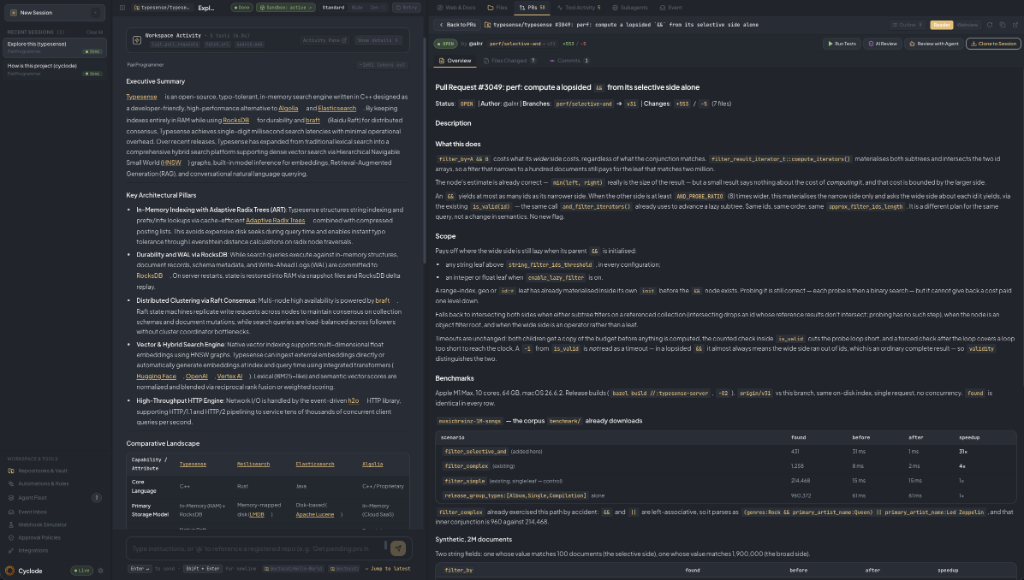
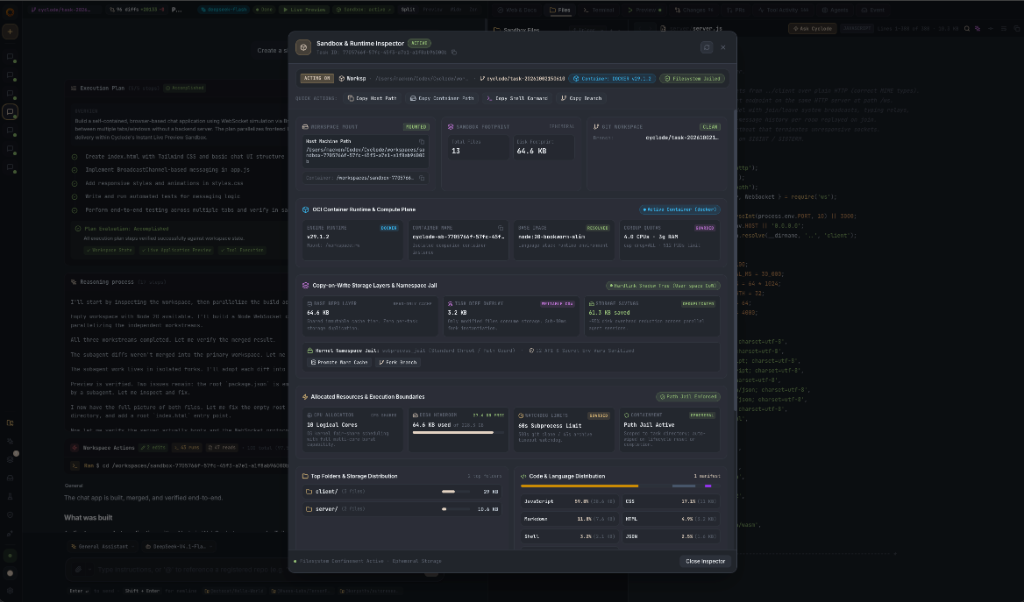
docs: overhaul README with MIT license, 325 test metrics, Rust search, and refreshed interface capture

diff --git a/README.md b/README.md
@@ -1,13 +1,22 @@
 <div align="center">
 
-# <img src="./assets/logo.svg" width="38" height="38" valign="middle" alt="Cyclode" /> Cyclode
+<h1 align="center" style="display: flex; align-items: center; justify-content: center; gap: 12px; font-size: 2.2rem; font-weight: 700; margin-bottom: 8px;">
+  <img src="./assets/logo.svg" width="38" height="38" alt="Cyclode Logo" style="vertical-align: middle; display: inline-block;" />
+  <span>Cyclode</span>
+</h1>
 
-**The Event-Driven & Prompt-Driven Autonomous Engineering Platform**
+<p align="center">
+  <strong>The Event-Driven &amp; Prompt-Driven Autonomous Engineering Platform</strong>
+</p>
 
-[![Frontend](https://img.shields.io/badge/frontend-React%2018%20%7C%20Vite%20%7C%20Tailwind-38bdf8.svg)](frontend/)
-[![Backend](https://img.shields.io/badge/backend-FastAPI%20%7C%20Python%203.11-10b981.svg)](backend/)
-[![Tests](https://img.shields.io/badge/tests-passing-brightgreen.svg)](backend/tests/)
-[![License](https://img.shields.io/badge/license-Proprietary-amber.svg)](LICENSE)
+<p align="center">
+  <a href="https://pypi.org/project/cyclode-ai/"><img src="https://img.shields.io/pypi/v/cyclode-ai.svg?color=blue" alt="PyPI" /></a>
+  <a href="frontend/"><img src="https://img.shields.io/badge/frontend-React%2018%20%7C%20Vite%20%7C%20Tailwind-38bdf8.svg" alt="Frontend" /></a>
+  <a href="backend/"><img src="https://img.shields.io/badge/backend-FastAPI%20%7C%20Python%203.11-10b981.svg" alt="Backend" /></a>
+  <a href="backend/tests/"><img src="https://img.shields.io/badge/tests-325%20passing-brightgreen.svg" alt="Tests" /></a>
+  <a href="crates/cyclode-search/"><img src="https://img.shields.io/badge/search-Rust%20%7C%20Tree--sitter-orange.svg" alt="Search Engine" /></a>
+  <a href="LICENSE"><img src="https://img.shields.io/badge/license-MIT-blue.svg" alt="License" /></a>
+</p>
 
 </div>
 
@@ -15,10 +24,10 @@
 
 ## Overview
 
-**Cyclode** is a full-lifecycle **event-driven and prompt-driven autonomous engineering platform** designed to automate developer loops, interactive software prototyping, pull request triage, and continuous system maintenance. Built for modern software teams, Cyclode bridges human developer intent with autonomous background agent loops:
+**Cyclode** is a full-lifecycle **event-driven and prompt-driven autonomous engineering platform** designed to automate developer workflows, interactive software prototyping, pull request triage, and continuous system maintenance. Built for modern software engineering teams, Cyclode seamlessly bridges human developer intent with autonomous background agent loops:
 
-1. **Prompt-Driven Engineering**: Developers converse naturally with specialized autonomous agent personas (`SoftwareEngineer`, `AppBuilder`, `CodeReviewer`, `IssueResolver`, `APMTriage`) across a split studio workspace with real-time token streaming, live application previews, and first-class execution plans.
-2. **Event-Driven Autonomous Awakening**: Background agents awaken automatically in response to GitHub webhooks (`check_run` CI test failures, PR comments, code pushes, issue updates), Sentry error alerts, and Slack slash commands, executing self-healing loops without human intervention.
+1. **Prompt-Driven Engineering**: Converse naturally with specialized autonomous agent personas (`SoftwareEngineer`, `AppBuilder`, `CodeReviewer`, `IssueResolver`, `APMTriage`) across a split studio workspace with real-time token streaming, live application previews, persistent PTY terminals, and first-class execution plans.
+2. **Event-Driven Autonomous Awakening**: Background agents awaken automatically in response to GitHub webhooks (`check_run` CI test failures, PR reviews, code pushes, issue updates), Sentry error alerts, and Slack commands, executing self-healing loops without human intervention.
 3. **End-to-End Trajectory Auditing & Deterministic Evals**: Every turn, thought, and tool action is preserved in an immutable agent trajectory with time-travel replay and scored against rigorous deterministic evaluation gates across workspace state invariants, unit tests, preview bundles, and security jails.
 
 <p align="center">
@@ -30,19 +39,38 @@
 ## Key Capabilities & Features
 
 ### 1. Event-Driven Awakening & Burst Debouncing
-- **CI/CD Failure Awakening**: When a GitHub `check_run` or `status` webhook reports a test suite failure or build break, Cyclode automatically awakens or spawns a session pinned to the failing branch/PR, analyzes the error logs, writes a fix, verifies tests, and posts a commit or PR review.
-- **2.5s Burst Debouncing**: Git push bursts and sequential webhook notifications are coalesced by an in-memory sliding debouncer (`EventDebouncer`), preventing agent thrashing while consolidating commit deltas into a single cohesive turn.
+- **CI/CD Failure Awakening**: When a GitHub `check_run` or `status` webhook reports a test suite failure or build break, Cyclode automatically awakens or spawns a session pinned to the failing branch/PR, analyzes error logs, writes a fix, verifies tests, and posts a commit or PR review.
+- **2.5s Burst Debouncing**: Rapid git push bursts and sequential webhook notifications are coalesced by an in-memory sliding debouncer (`EventDebouncer`), preventing agent thrashing while consolidating commit deltas into a single cohesive turn.
 - **Session Key Association**: Inbound events are automatically routed to existing active branch sessions or PR contexts, preserving conversation memory and workspace worktrees.
 
-### 2. Bi-Directional Event Stream & Live Injection Bar
-- **Bi-Directional Event Timeline**: Dedicated **'Event' Tab** in the Auxiliary Pane displaying both inbound webhook triggers (`INBOUND`) with cryptographic HMAC-SHA256 verification and outbound agent dispatches (`OUTBOUND`) like PR comments, reviews, and git pushes.
-- **Simulation Bar / Event Injector**: Test and verify autonomous agent loops directly from the UI with single-click injectors for CI failures, review comments, push bursts, and Sentry alerts.
+### 2. High-Performance Rust Search & Tree-sitter Code Intelligence
+- **Native Trigram Indexing**: Powered by [`crates/cyclode-search`](crates/cyclode-search/), providing sub-millisecond full-text and trigram code search across large repositories.
+- **Tree-sitter AST Parsing**: Native language grammar support (Python, Rust, Go) for accurate symbol extraction, definition lookups, and hierarchical code navigation.
+- **PyO3 C-ABI Bindings & Standalone Daemon**: Operates either as an embedded Python extension module or as a standalone background daemon (`cyclode-searchd`).
 
-### 3. Agent Trajectory Auditing & Time-Travel Replay
-- **Turn-by-Turn Trajectory Inspector**: Complete end-to-end recording of internal agent reasoning thoughts, tool invocations with millisecond timing, exit codes, token consumption, and git diff snapshot SHAs.
-- **Time-Travel Replay**: Instantly replay any historical agent trajectory to debug decision points and reproduction flows.
+### 3. Interactive Multi-Terminal Studio
+- **Persistent PTY Multiplexer**: Spawns isolated, stateful pseudoterminal sessions managed by [`TerminalManager`](backend/app/core/sandboxes/terminal_manager.py) in the sandbox container.
+- **Xterm.js Integration**: Full ANSI color escape support, resize auto-fit, and clickable web links via `@xterm/xterm` in the Auxiliary Pane.
+- **Multi-Tab Session Switching**: Seamlessly toggle between multiple concurrent shell sessions directly alongside the agent conversation.
 
-### 4. Deterministic Multi-Tier Evaluation Scorecards
+### 4. Rich Document, Jupyter Notebook & Data Viewers
+- **Jupyter Notebook Studio (`.ipynb`)**: Full interactive notebook renderer with KaTeX mathematical formulas, output cell inspection, and live cell execution via [`/api/notebooks`](backend/app/api/notebooks.py).
+- **Dark-Mode Word Document Viewer (`.docx`)**: Native Word document parsing and styling tailored for dark developer themes.
+- **Data Tables & Archives**: Interactive CSV, TSV, JSON, and archive (`.zip`, `.tar.gz`) inspectors with search, sorting, and tree browsing.
+- **Async Git Blame & Line Context**: Interactive inline blame hover cards with commit SHAs, author metadata, and relative timestamps.
+
+### 5. Decision-Aware PR Review Lifecycle & Composer
+- **Review Staging Approval Card**: Differentiates author versus reviewer workflows with contextual drafting, automated sanity checks, and staged approval/rejection actions.
+- **Enhanced Comment Composer**: Markdown toolbar with bold, italic, code blocks, quote formatting, Write/Preview tab toggling, and predefined review templates.
+- **Official Documentation Grounding**: Validates proposed code fixes against official external language and framework documentation prior to submitting suggestions.
+- **Interactive Collapsibility & Bot Diagnostics**: Thread folding, resolved status badges, and automated bot diagnostic triage trays.
+
+### 6. First-Class Execution Plan Lifecycle
+- **Dynamic Archetypes**: Formulates structured, domain-tailored roadmaps for interactive apps, fullstack scaffolding, bug triage, test suites, and refactoring tasks.
+- **Real-Time Step Streaming**: Steps dynamically transition their state (`pending` → `in_progress` with animated vector indicator → `completed` / `failed`) as tools execute.
+- **Vector-Only Iconography**: Pure monochrome SVG vector graphics with zero emoji clutter.
+
+### 7. Deterministic Multi-Tier Evaluation Scorecards
 - **Rigorous Verification Gates**: Decouples subjective LLM self-reporting from deterministic workspace proofs:
   - *Workspace Invariants*: Verifies modified source files exist, are non-empty, and free of syntax errors.
   - *Live Preview Bundling*: Confirms `index.html` and assets mount cleanly in the preview iframe.
@@ -51,27 +79,16 @@
   - *Synthesis Quality*: Validates response depth, actionable diffs, and formatting standards.
 - **Scorecard Progress**: Evaluated scores (0–100%) and actionable pass/fail diagnostics rendered directly in the Event Inspector and Execution Plan header.
 
-### 5. First-Class Execution Plan Lifecycle
-Prior to executing any tool commands, the agent formulates a domain-tailored step-by-step execution roadmap rendered inside a dedicated collapsible accordion positioned directly above the Reasoning and Activity streams:
-- **Dynamic Archetypes**: Tailors specialized plan steps for distinct development tasks (Interactive Apps, Games, E-Commerce Catalogs, PR Reviews, Test Suites, Fullstack Scaffolding).
-- **Real-Time Step Streaming**: Steps dynamically transition their state (`pending` → `in_progress` with animated spinner → `completed` / `failed`) as tools execute.
-- **Vector-Only Iconography (Zero Emojis)**: Styled exclusively with pure monochrome Lucide SVG vector icons.
+### 8. Multi-Provider LLM Engine & Dynamic Model Catalog
+- **Multi-Model Support**: First-class provider implementations for **Google Gemini** (Gemini 3.7 / 2.5), **Anthropic Claude** (Claude 3.7 / 3.5 Sonnet), **DeepSeek** (DeepSeek V3 / R1), and **OpenAI** (GPT-4o, o1, o3-mini, and compatible custom endpoints).
+- **Dynamic Routing & Catalog**: Real-time capability discovery and model selection via [`/api/models`](backend/app/api/models.py).
 
-### 6. Split Studio Layout & Real-Estate Presets
-- **Split Studio (Default - 48% Right Canvas)**: Balances compact, ergonomic chat reading measures with expansive canvas space for interactive development, live previewing, and PR inspection.
-- **Preview Focus (60% Right Canvas)**: Expands the auxiliary workspace for dedicated application testing and side-by-side code reviews.
+### 9. Split Studio Layout & Real-Estate Presets
+- **Split Studio (Default - 48% Right Canvas)**: Ergonomic chat reading width balanced with expansive canvas space for live previewing and code diffs.
+- **Preview Focus (60% Right Canvas)**: Expanded auxiliary workspace for deep application testing and side-by-side code reviews.
 - **Wide Chat (25% Right Canvas) & Zen View (100% Canvas)**: Full customization saved persistently in `localStorage`.
 
-### 7. Live Application Preview & Diagnostics
-- **Zero-Config DOM Mounting**: Automatically detects application frameworks (Vite, React, Vue, HTML5/Tailwind), resolves asset bundles, and injects runtime telemetry.
-- **Diagnostic Bundling Fallback**: Identifies missing entry points or uncompiled CSS/JS and synthesizes standalone preview runtimes with CDN headers.
-
-### 8. Full-Fidelity Pull Request Inspector & Comment Auto-Sync
-- **Live GitHub PR Discovery & Diffs**: Real-time retrieval of PR metadata, commit timelines, and syntax-highlighted unified diffs.
-- **Consolidated Comments Timeline**: Unified feed aggregating PR conversations, inline code review comments, and formal review submissions.
-- **Multi-Trigger Auto-Sync**: Real-time updates via WebSockets (`PR_COMMENTS_UPDATED`), focus-aware adaptive polling, and post-submission sync.
-
-### 9. Autonomous Multi-Agent Personas
+### 10. Autonomous Multi-Agent Personas
 - `SoftwareEngineer`: Autonomous full-cycle software engineering, feature implementation, refactoring, and test verification.
 - `AppBuilder`: Interactive web application scaffolding, live preview verification, and design craftsmanship.
 - `CodeReviewer`: Deep PR diff analysis, security audits, null safety checks, and edge-case validation.
@@ -89,23 +106,47 @@ graph TD
     D --> E["Event Debouncer (2.5s Coalescing Window)"]
     E --> B
     B --> F["Governance Policy Engine (Strict / Autonomous / Permissive)"]
-    F --> G["Agent Pool & Harness (Gemini / Universal LLM)"]
-    G --> H["Trajectory Collector (Turns, Thoughts, Tool Latencies)"]
-    G --> I["Outbound Event Dispatcher (PR Comments, Git Push, Alerts)"]
-    G --> J["Evaluation Runner (Workspace, Preview, Tests, Security)"]
-    G --> K["Ephemeral Sandboxes & Workspace Filesystem"]
-    G --> L["Live App Preview & Diagnostic Bundler"]
-    B --> M["Real-Time WebSocket Broadcast (EVENTS, TRAJECTORY, EVALS)"]
-    M --> N["React 18 / Vite Split Studio UI (Event Inspector, Chat, Preview)"]
+    F --> G["Agent Pool & Harness"]
+    
+    G --> H["Multi-Provider LLM Gateway (Gemini / Claude / DeepSeek / OpenAI)"]
+    G --> I["Rust Search Engine (Trigram & Tree-sitter AST)"]
+    G --> J["Ephemeral Sandboxes & PTY Terminal Manager"]
+    G --> K["Live App Preview & Diagnostic Bundler"]
+    G --> L["Evaluation Runner (Workspace, Preview, Tests, Security)"]
+    G --> M["Trajectory Collector (Turns, Thoughts, Latencies)"]
+    G --> N["Outbound Dispatcher (PR Comments, Git Push, Alerts)"]
+    
+    B --> O["Real-Time WebSocket Gateway (EVENTS, TRAJECTORY, EVALS, PTY)"]
+    O --> P["React 18 / Vite Split Studio UI (Chat, Preview, Diff, Terminals, Viewers)"]
 ```
 
 ---
 
 ## Quick Start
 
-### One-Command Launch with `./run.sh` (Recommended)
+### Option 1: Standalone CLI Package (`cyclode-ai`)
 
-Cyclode provides an automated startup script that verifies prerequisites, provisions environment configurations, launches container services, polls health endpoints, and streams live logs:
+Install Cyclode directly from PyPI to run autonomous agent workflows in any local workspace:
+
+```bash
+# 1. Install cyclode-ai package
+pip install cyclode-ai
+
+# 2. Run interactive setup wizard (configures API keys, default model, and ports)
+cyclode init
+
+# 3. Check configuration status
+cyclode status
+
+# 4. Start Cyclode workstation in the current directory
+cyclode start
+```
+
+---
+
+### Option 2: Automated Docker Launch with `./run.sh` (Recommended)
+
+Cyclode includes an automated startup script that verifies prerequisites, provisions environment configurations, builds container services, polls health endpoints, and streams live logs:
 
 ```bash
 # 1. Clone repository
@@ -130,9 +171,7 @@ The `./run.sh` script automatically:
 
 ---
 
-### Manual Docker Compose Launch
-
-Alternatively, you can launch directly using Docker Compose:
+### Option 3: Manual Docker Compose Launch
 
 ```bash
 docker compose up --build
@@ -164,13 +203,20 @@ npm install
 npm run dev
 ```
 
+### Rust Code Search Crate (Optional)
+
+```bash
+cd crates/cyclode-search
+cargo build --release
+```
+
 ---
 
 ## Running Tests
 
 ### Backend Test Suite (Pytest)
 
-Cyclode includes **193 automated unit, integration, provider, and sandbox tests**:
+Cyclode includes **325 automated unit, integration, provider, search, and sandbox tests**:
 
 ```bash
 # From repository root (recommended)
@@ -200,41 +246,44 @@ docker exec cyclode-frontend npm run build
 ## Repository Structure
 
 ```
-cyclode/
-├── assets/                    # Brand logos and vector graphics
-│   ├── logo.svg               # Pure transparent epicycloid vector logo
-│   └── logo.png               # High-resolution raster brand mark
+Cyclode/
+├── assets/                    # Brand assets and interface captures
+│   ├── logo.svg               # Vector logo mark
+│   ├── logo.png               # High-resolution raster logo
+│   └── cyclode-workstation.png# Workstation interface screenshot
 ├── backend/
-│   ├── app/
-│   │   ├── agent/             # Agent pool, harness, dynamic planning, and personas
-│   │   │   └── engine/        # Modular snapshots, git worktrees, and plan synthesis
-│   │   ├── api/               # FastAPI REST endpoints, WebSockets (/ws/live), preview, tasks
-│   │   ├── core/              # Event router, worktrees, policies, and sandboxes (Jailer / CoW)
+│   ├── app/                   # Canonical FastAPI backend application
+│   │   ├── agent/             # Multi-agent harness, dynamic planning, personas, and providers
+│   │   │   ├── engine/        # Modular snapshots, git worktrees, and plan synthesis
+│   │   │   └── providers/     # Gemini, Claude, DeepSeek, and OpenAI adapter implementations
+│   │   ├── api/               # REST endpoints, WebSockets, preview, tasks, terminals, notebooks
+│   │   ├── core/              # Event router, worktrees, policies, sandboxes (PTY, Jailer, CoW)
 │   │   ├── db/                # SQLAlchemy 2.0 async models, SQLite WAL & PostgreSQL asyncpg
 │   │   └── integrations/      # GitHub, Slack, Linear, AppSignal, and Vault Interceptor
-│   ├── Dockerfile.dev         # Backend dev container
-│   ├── requirements.txt       # Python dependencies
-│   └── tests/                 # Comprehensive pytest test suite (193 passing)
+│   ├── cyclode/               # Standalone CLI entrypoint and packaging package
+│   └── tests/                 # Comprehensive pytest test suite (325 passing tests)
+├── crates/
+│   └── cyclode-search/        # High-performance Rust trigram search & Tree-sitter AST engine
 ├── frontend/
-│   ├── public/                # Favicon suite (SVG, ICO, 16px, 32px, 180px, 512px)
+│   ├── public/                # Favicon suite and static web assets
 │   ├── src/
-│   │   ├── components/        # Chat, ExecutionPlan, AuxiliaryPane, Layout, Header, Sidebar
-│   │   ├── contexts/          # WebSocket streaming and telemetry context
+│   │   ├── components/        # ChatCanvas, AuxiliaryPane, Diff, Files, Viewers, Terminals, PRs
+│   │   ├── contexts/          # WebSocket streaming and telemetry hub
 │   │   ├── stores/            # Modular state stores (useTaskStore, useLayoutStore, useEventStore)
-│   │   └── types/             # TypeScript type definitions and LayoutPresets
-│   ├── Dockerfile.dev         # Frontend dev container
-│   └── package.json
-├── pyproject.toml             # Python packaging and pytest canonical paths
-├── docker-compose.yml         # Container orchestration
-├── Dockerfile                 # Multi-stage production container specification
+│   │   └── types/             # TypeScript type definitions and layout presets
+│   ├── package.json           # Frontend dependencies and build scripts
+│   └── vite.config.ts         # Vite build configuration
+├── pyproject.toml             # Python build configuration and pytest discovery paths
+├── docker-compose.yml         # Container orchestration specification
+├── Dockerfile                 # Multi-stage production container build
 ├── run.sh                     # Automated workstation launch & healthcheck script
 ├── .env.example               # Configuration template
-└── README.md
+├── LICENSE                    # MIT License
+└── README.md                  # Project documentation
 ```
 
 ---
 
 ## License
 
-Proprietary / Internal — Cyclode
-
+This project is licensed under the [MIT License](LICENSE) — see the [LICENSE](LICENSE) file for details.

diff --git a/AGENTS.md b/AGENTS.md
@@ -67,7 +67,9 @@ Cyclode/
 │   │   ├── integrations/      # GitHub, Slack, Linear, AppSignal clients & registry
 │   │   └── static/            # Static build output mounted by FastAPI
 │   ├── cyclode/               # Standalone CLI entrypoint and packaging package
-│   └── tests/                 # Canonical backend pytest test suite (193 tests)
+│   └── tests/                 # Canonical backend pytest test suite (325 tests)
+├── crates/
+│   └── cyclode-search/        # High-performance Rust trigram search & Tree-sitter AST engine
 ├── frontend/
 │   ├── src/
 │   │   ├── components/        # React components (ChatCanvas, AuxiliaryPane, PRDetailView)
@@ -131,7 +133,7 @@ Cyclode/
 Before declaring any engineering task complete, agents MUST run the full automated verification suite:
 
 ```bash
-# 1. Backend Verification (Must achieve 100% pass rate across all 193 tests)
+# 1. Backend Verification (Must achieve 100% pass rate across all 325 tests)
 pytest -v
 
 # 2. Frontend TypeScript Compilation & Asset Build (Must compile with 0 errors)
